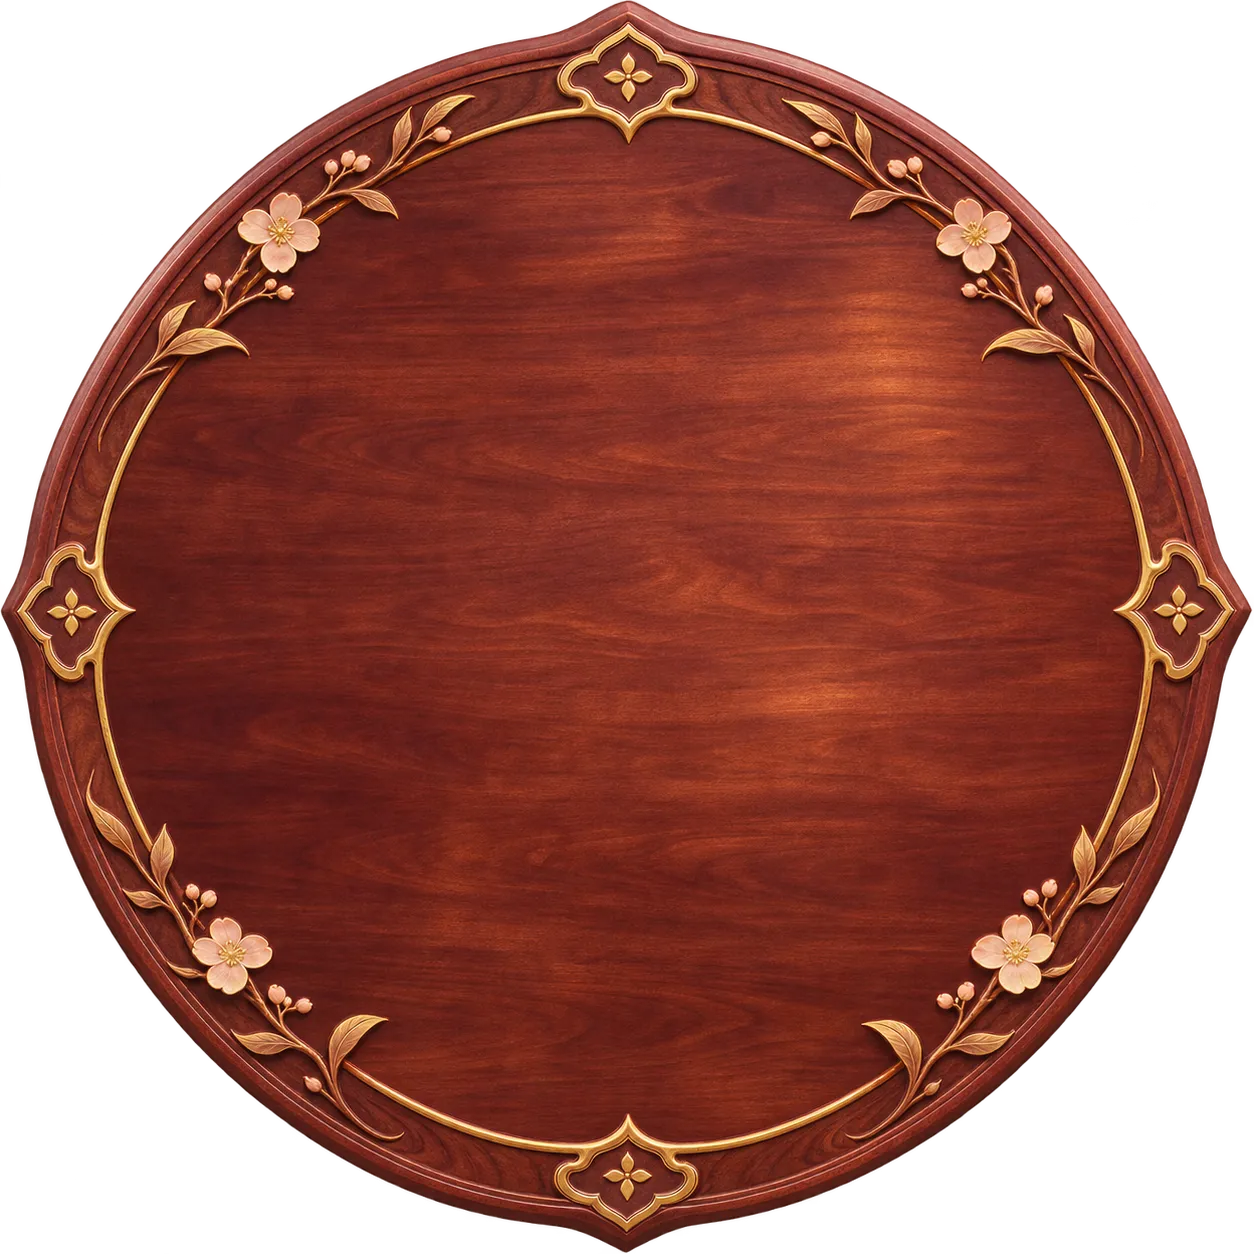
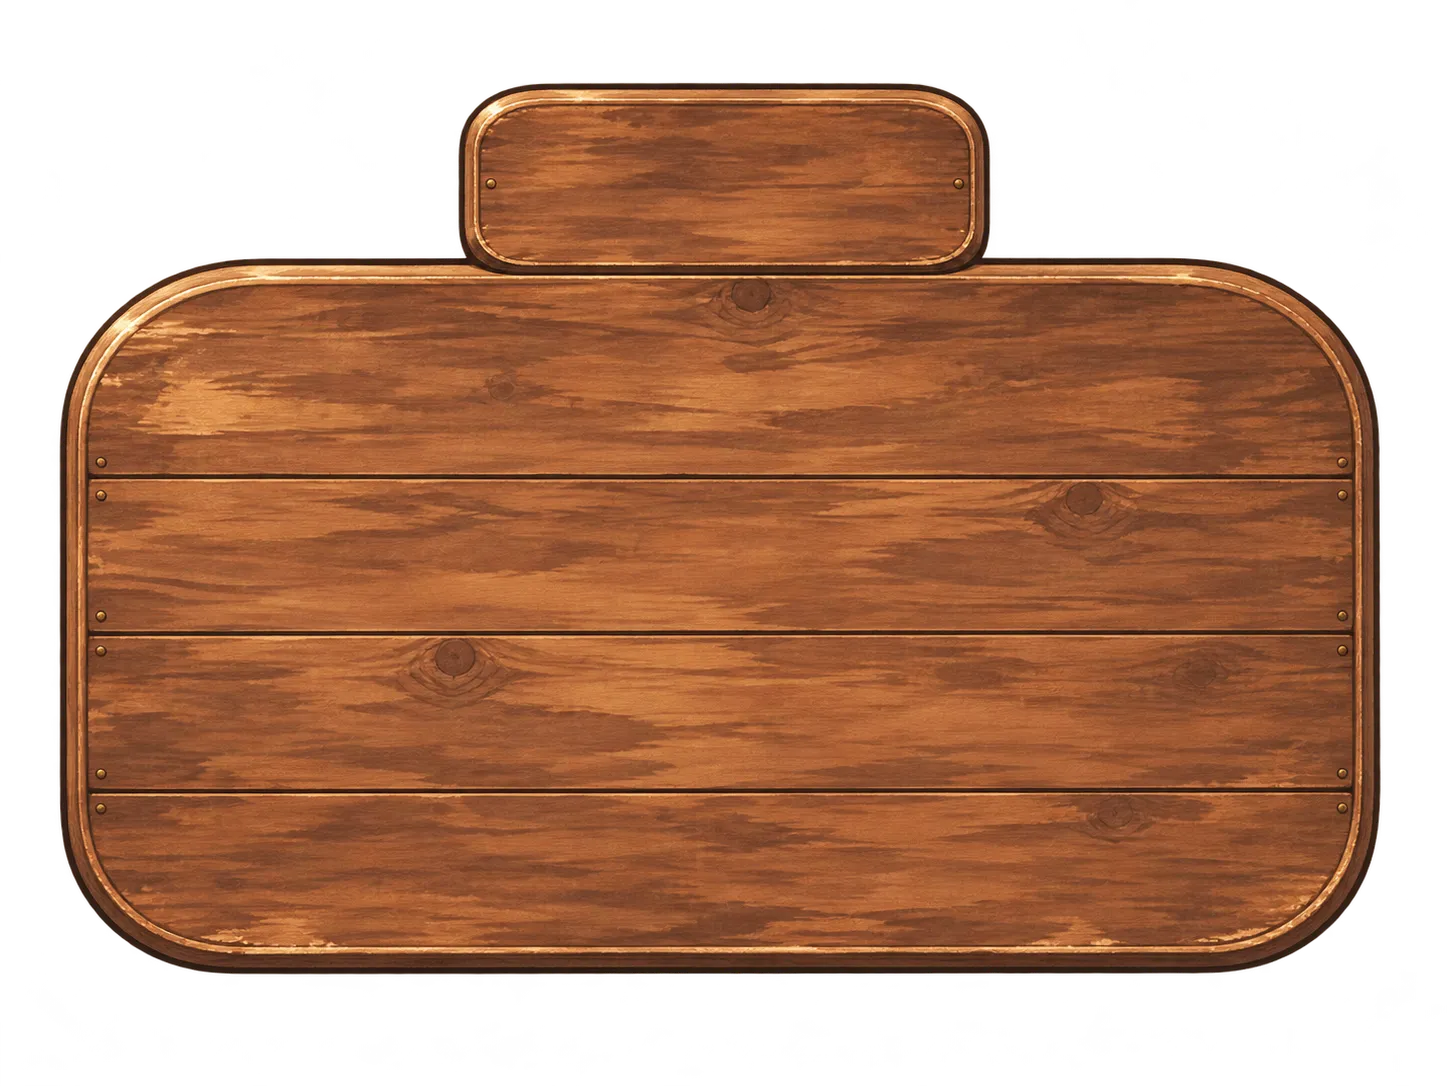
Fit the Grimoire to the rectangular tabletop and tool shelf

diff --git a/src/grimoire/book-view.js b/src/grimoire/book-view.js
@@ -1,10 +1,10 @@
 // Paper coordinates never change. The book is offset on one rigid table scene.
 export const BOOK_SIZE = Object.freeze({ width: 1120, height: 794.4188 });
-export const TABLE_SIZE = Object.freeze({ width: 1792, height: 1792 });
-export const BOOK_OFFSET = Object.freeze({ x: 296, y: 552 });
+export const TABLE_SIZE = Object.freeze({ width: 1590, height: 1490 });
+export const BOOK_OFFSET = Object.freeze({ x: 218, y: 440 });
 export const STATIONERY_PLACEMENT = Object.freeze({
-  marker: Object.freeze({ x: 580, y: 185, width: 235, height: 290, rotation: 32 }),
-  inkwell: Object.freeze({ x: 920, y: 110, width: 290, height: 310, rotation: 0 }),
+  marker: Object.freeze({ x: 530, y: 121, width: 108, height: 162, rotation: 32 }),
+  inkwell: Object.freeze({ x: 654, y: 120, width: 168, height: 168, rotation: 0 }),
 });
 export const TABLETOP_STYLE = Object.freeze({ '--table-width': `${TABLE_SIZE.width}px`, '--table-height': `${TABLE_SIZE.height}px`,
   '--book-left': `${BOOK_OFFSET.x}px`, '--book-top': `${BOOK_OFFSET.y}px` });
@@ -57,7 +57,9 @@ function fitBounds(viewport, bounds, rotation) {
 // Frame the useful arrangement, not the entire ornamental rim. Fit book remains
 // available for a closer reading view without moving anything relative to wood.
 export function fitTabletop(viewport, rotation = 0) {
-  const points = [[160, 100], [1560, 100], [160, BOOK_OFFSET.y + BOOK_SIZE.height + 37], [1560, BOOK_OFFSET.y + BOOK_SIZE.height + 37]]
+  const left = BOOK_OFFSET.x - 136, right = BOOK_OFFSET.x + BOOK_SIZE.width + 136;
+  const top = 86, bottom = BOOK_OFFSET.y + BOOK_SIZE.height + 37;
+  const points = [[left, top], [right, top], [left, bottom], [right, bottom]]
     .map(([x, y]) => tableToScreen({ x, y }, { x: 0, y: 0, zoom: 1, rotation }));
   return fitBounds(viewport, { left: Math.min(...points.map(p => p.x)), right: Math.max(...points.map(p => p.x)),
     top: Math.min(...points.map(p => p.y)), bottom: Math.max(...points.map(p => p.y)) }, rotation);
@@ -80,19 +82,24 @@ export function recoverBook(view, viewport, size = BOOK_SIZE) {
 }
 
 export function savedBookView(view, viewport) {
-  return { version: 2, x: view.x / viewport.width, y: view.y / viewport.height, zoom: view.zoom, rotation: flatAngle(view.rotation) };
+  return { version: 3, x: view.x / viewport.width, y: view.y / viewport.height, zoom: view.zoom, rotation: flatAngle(view.rotation) };
 }
 
 export function restoreBookView(saved, viewport) {
-  if (![1, 2].includes(saved?.version) || !['x', 'y', 'zoom', 'rotation'].every(key => typeof saved[key] === 'number' && Number.isFinite(saved[key]))
+  if (![1, 2, 3].includes(saved?.version) || !['x', 'y', 'zoom', 'rotation'].every(key => typeof saved[key] === 'number' && Number.isFinite(saved[key]))
     || Math.abs(saved.x) > 1000 || Math.abs(saved.y) > 1000
     || saved.zoom < MIN_BOOK_ZOOM || saved.zoom > MAX_BOOK_ZOOM) return fitTabletop(viewport);
   let view = { x: saved.x * viewport.width, y: saved.y * viewport.height, zoom: saved.zoom, rotation: flatAngle(saved.rotation) };
-  if (saved.version === 1) {
-    // v1 stored the paper center. Move the pivot to the table center while every
-    // paper point retains its exact screen position, including at rotated poses.
-    const center = bookToScreen({ x: BOOK_SIZE.width / 2, y: BOOK_SIZE.height / 2 }, view);
-    view = { ...view, x: view.x * 2 - center.x, y: view.y * 2 - center.y };
+  if (saved.version < 3) {
+    // v1 used the paper center and v2 used the center of the round table.
+    const paperCenter = { x: BOOK_SIZE.width / 2, y: BOOK_SIZE.height / 2 };
+    const oldOffset = saved.version === 2 ? { x: 296 - 896, y: 552 - 896 } : { x: -paperCenter.x, y: -paperCenter.y };
+    const oldCenter = tableToScreen({
+      x: TABLE_SIZE.width / 2 + oldOffset.x + paperCenter.x,
+      y: TABLE_SIZE.height / 2 + oldOffset.y + paperCenter.y,
+    }, view);
+    const newCenter = bookToScreen(paperCenter, view);
+    view = { ...view, x: view.x + oldCenter.x - newCenter.x, y: view.y + oldCenter.y - newCenter.y };
   }
   return recoverBook(view, viewport);
 }

diff --git a/src/book-tabletop.css b/src/book-tabletop.css
@@ -26,23 +26,24 @@
 .cg-tabletop .cg-table-surface { position: absolute; inset: 0; cursor: grab; touch-action: none; pointer-events: auto;
   /* Alpha silhouette of the supplied WebP, with a small outer rim allowance.
      Clip only the input surface; the artwork and its shadows remain intact. */
-  clip-path: polygon(50.8373% 0.039872%, 54.5056% 1.95375%, 55.622% 2.35247%, 59.7687% 3.22966%, 62.799% 4.02711%,
-    66.1483% 5.22328%, 70.5343% 7.29665%, 73.8836% 9.21053%, 77.0734% 11.4434%, 79.067% 13.0383%,
-    83.134% 16.866%, 85.7656% 19.8166%, 88.4769% 23.4051%, 90.7895% 26.9936%, 92.2249% 29.5455%,
-    94.1388% 33.453%, 95.4147% 36.6427%, 96.4514% 39.992%, 96.9298% 42.1451%, 97.5678% 44.2185%,
-    99.5614% 47.6475%, 99.9601% 48.445%, 99.9601% 48.8437%, 98.126% 52.5917%, 97.5678% 54.5056%,
-    97.0893% 57.3764%, 96.0526% 61.6029%, 94.4577% 66.2281%, 92.7831% 70.0558%, 90.949% 73.4848%,
-    89.0351% 76.5152%, 86.9617% 79.3062%, 84.0112% 82.7352%, 81.1404% 85.6061%, 76.8341% 89.1946%,
-    74.362% 90.8692%, 70.8533% 92.9426%, 67.5837% 94.5375%, 64.7927% 95.6539%, 60.1675% 97.0096%,
-    54.7448% 97.9665%, 52.7512% 98.6842%, 50.1994% 99.9601%, 49.6411% 99.9601%, 47.5678% 98.9234%,
-    45.6539% 98.2057%, 40.4705% 97.4083%, 37.201% 96.6906%, 34.5694% 95.8931%, 30.7416% 94.378%,
-    26.7544% 92.3046%, 22.9266% 89.8325%, 19.1786% 86.882%, 15.1914% 83.0542%, 12.9585% 80.5024%,
-    10.0877% 76.6746%, 8.0941% 73.4848%, 5.86124% 69.0989%, 4.34609% 65.3509%, 3.07017% 61.3636%,
-    2.27273% 57.7751%, 1.55502% 52.9107%, 1.07655% 51.4753%, 0% 49.1627%, 0% 48.3652%,
-    0.99681% 46.4514%, 1.79426% 44.059%, 2.35247% 40.8692%, 2.99043% 38.2376%, 4.42584% 34.3301%,
-    5.94099% 31.0606%, 8.33333% 26.7544%, 10.6459% 23.2456%, 13.5167% 19.5774%, 16.3078% 16.547%,
-    19.4976% 13.5965%, 21.89% 11.6826%, 24.5215% 9.84849%, 28.1898% 7.69538%, 31.4593% 6.10048%,
-    36.3238% 4.26635%, 39.2743% 3.4689%, 43.1021% 2.7512%, 44.6172% 2.35247%, 49.3222% 0.039872%); }
+  clip-path: polygon(47.203% 7.5046%, 63.1561% 7.59668%, 64.261% 7.78085%, 65.4351% 8.24125%, 66.5401% 8.9779%,
+    67.3688% 9.89871%, 67.9213% 10.9116%, 68.4047% 12.477%, 68.4738% 14.2265%, 68.5428% 14.3186%,
+    68.5428% 20.7643%, 68.4738% 20.8564%, 68.4738% 21.9613%, 68.1285% 23.5267%, 81.25% 23.6188%,
+    83.4599% 23.8029%, 84.8412% 24.0792%, 86.6367% 24.7238%, 88.2942% 25.6446%, 90.5041% 27.4862%,
+    92.0925% 29.3278%, 93.3356% 31.3536%, 94.3715% 33.8398%, 94.924% 35.8656%, 95.3384% 38.628%,
+    95.3384% 39.733%, 95.4075% 39.825%, 95.4075% 54.7422%, 95.4765% 54.8343%, 95.4765% 56.5838%,
+    95.4075% 56.6759%, 95.4075% 57.6888%, 95.4765% 57.7808%, 95.4765% 74.0792%, 95.4075% 74.1713%,
+    95.3384% 76.4733%, 94.9931% 78.7753%, 94.4406% 80.8932%, 93.8191% 82.4586%, 92.645% 84.5764%,
+    91.3329% 86.2339%, 89.8135% 87.6151%, 88.2251% 88.628%, 87.1892% 89.0884%, 85.8771% 89.4567%,
+    83.8743% 89.733%, 37.3964% 89.825%, 16.1257% 89.825%, 14.0539% 89.6409%, 12.3273% 89.1805%,
+    10.739% 88.4438%, 8.94337% 87.1547%, 7.70028% 85.8656%, 6.66437% 84.4843%, 6.11188% 83.5635%,
+    5.55939% 82.4586%, 4.79972% 80.4328%, 4.3163% 78.407%, 4.04005% 75.9208%, 4.04005% 74.1713%,
+    3.97099% 74.0792%, 3.97099% 40.4696%, 4.04005% 40.3775%, 4.04005% 38.7201%, 4.3163% 36.5101%,
+    4.59254% 35.1289%, 5.00691% 33.7477%, 5.9047% 31.5378%, 6.87155% 29.8803%, 7.97652% 28.407%,
+    9.28867% 27.0258%, 10.5318% 26.0129%, 11.4986% 25.3683%, 13.4323% 24.4475%, 15.4351% 23.895%,
+    17.0235% 23.7109%, 32.0097% 23.6188%, 31.7334% 22.8821%, 31.5262% 21.4088%, 31.5262% 13.4899%,
+    31.6644% 12.2928%, 32.1478% 10.7274%, 33.1837% 9.25414%, 34.5649% 8.24125%, 36.2224% 7.68877%,
+    46.3052% 7.5046%); }
 .cg-tabletop .cg-table-surface:active { cursor: grabbing; }
 .cg-tabletop .cg-table-art { position: absolute; inset: 0; width: 100%; height: 100%; display: block; pointer-events: none; user-select: none;
   filter: drop-shadow(0 12px 10px #06100b80) drop-shadow(0 30px 28px #06100b55); }

diff --git a/tests/book-view.test.js b/tests/book-view.test.js
@@ -85,9 +85,22 @@ test('legacy paper-centered preferences migrate to a table pivot without moving 
       close(actual.y, viewport.height * old.y + x * Math.sin(radians) + y * Math.cos(radians));
     }
     const saved = savedBookView(view, viewport);
-    assert.equal(saved.version, 2);
+    assert.equal(saved.version, 3);
     const reopened = restoreBookView(saved, viewport);
     close(reopened.x, view.x); close(reopened.y, view.y); // migration happens once
+  }
+});
+
+test('round table preferences keep the paper centered at the same screen point after the artwork swap', () => {
+  const viewport = viewports[0];
+  for (const rotation of [-150, -40, 0, 90, 170]) {
+    const saved = { version: 2, x: .5, y: .5, zoom: .8, rotation };
+    const view = restoreBookView(saved, viewport);
+    const angle = rotation * Math.PI / 180;
+    const x = (296 - 896) * saved.zoom, y = (552 - 896) * saved.zoom;
+    const corner = bookToScreen({ x: 0, y: 0 }, view);
+    close(corner.x, viewport.width * saved.x + x * Math.cos(angle) - y * Math.sin(angle));
+    close(corner.y, viewport.height * saved.y + x * Math.sin(angle) + y * Math.cos(angle));
   }
 });
 

diff --git a/docs/working/grimoire-rectangular-table.md b/docs/working/grimoire-rectangular-table.md
@@ -1,0 +1,9 @@
+# Rectangular Grimoire tabletop
+
+11 November 2026
+
+Use the supplied shelf tabletop. Match the mockup’s tighter rim around the open book and place the tools on the shelf. Derive the drag outline from the artwork’s alpha channel, including the cutouts beside the shelf. Preserve the position of the paper when restoring a view saved with the round table.
+
+- [x] Fit and saved-view tests pass. The new tabletop uses the proportions of the mockup around the existing paper size. The tool centers sit left of the settled raised bookmark positions.
+- [x] The drag outline covers the opaque wood and leaves the two spaces beside the shelf clickable. The production build, repository tests, and packaged review checks pass. The review embeds the new artwork.
+- [ ] Check raised bookmark clearance and garden clicks around the shelf in a native browser.
